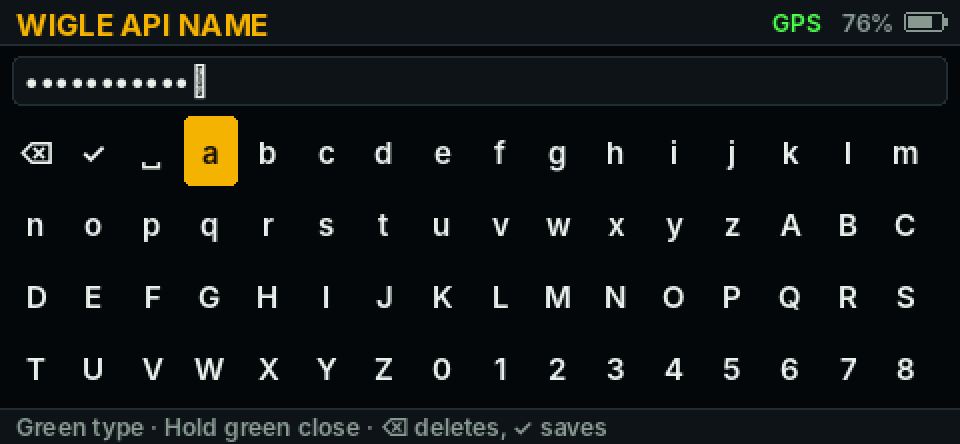
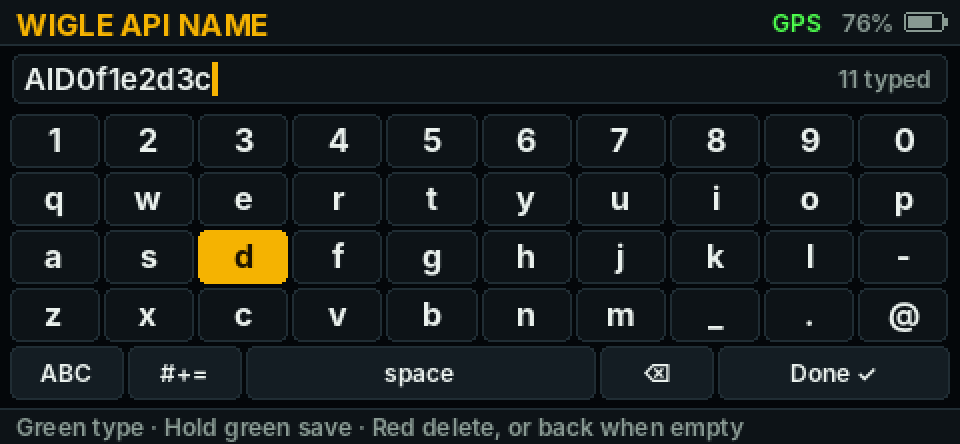
On-screen keyboard for the D-pad that opens with every key entry

Changed region(s): [[0.0, 0.1171, 1.0, 0.9077], [0.3125, 0.9369, 0.7812, 0.9955], [0.9375, 0.5563, 0.9688, 0.5856]]

diff --git a/payload/quartermaster/qmpager/wide.py b/payload/quartermaster/qmpager/wide.py
@@ -16,6 +16,7 @@ from quartermaster.ui.keys import Key
 from quartermaster.ui.square import SquareUI
 
 from . import PAGER_VERSION
+from .keyboard import WIDE, Keyboard
 
 WIDTH, HEIGHT = 480, 222
 TOP = 24
@@ -130,10 +131,44 @@ class WideUI(SquareUI):
             step = {"LEFT": -1, "RIGHT": 1, "UP": -HOME_COLUMNS, "DOWN": HOME_COLUMNS}[key.name]
             screen.index = (screen.index + step) % len(screen.TILES)
             return True
-        if isinstance(screen, screens.TextInput) and self.mode == "type" and key.name in ("UP", "DOWN"):
-            self.cell = (self.cell + (16 if key.name == "DOWN" else -16)) % len(self.characters())
-            return True
+        if isinstance(screen, screens.TextInput) and self.mode != "actions":
+            return self.typing(key, screen, app)
         return super().handle(key, app)
+
+    def sync(self, screen):
+        if screen is not self.screen:
+            self.kb = Keyboard()
+        super().sync(screen)
+
+    def typing(self, key, screen, app):
+        name = key.name
+        kb = self.sync_kb()
+        if name in ("UP", "DOWN", "LEFT", "RIGHT"):
+            kb.move(name)
+        elif name == "ENTER" and not key.repeat:
+            done = kb.press()
+            if done is None:
+                return True
+            if done[0] == "type":
+                screen.insert(done[1])
+            elif done[0] == "delete":
+                screen.value = screen.value[:-1]
+            else:
+                screen.handle(Key("ENTER"), app)
+        elif name == "TAB":
+            screen.handle(Key("ENTER"), app)
+        elif name == "ESC":
+            if screen.value:
+                screen.value = screen.value[:-1]
+            else:
+                screen.handle(Key("ESC"), app)
+        elif name in ("BACKSPACE", "DELETE"):
+            screen.value = screen.value[:-1]
+        elif key.char and key.char.isprintable():
+            screen.insert(key.char)
+        else:
+            return False
+        return True
 
     def home(self, c, app, screen):
         w = (WIDTH - 10) // HOME_COLUMNS
@@ -217,29 +252,41 @@ class WideUI(SquareUI):
                           self.bold, GOLD_INK if selected else TEXT)
 
     def editor(self, c, screen):
-        y = TOP + 4
-        field = screen.display_value()
-        while field and c.text_width(field, self.body) > WIDTH - 30:
+        kb = self.sync_kb()
+        y = TOP + 3
+        field = screen.value
+        while field and c.text_width(field, self.body) > WIDTH - 90:
             field = field[1:]
         c.rect((6, y, WIDTH - 7, y + ROW + 2), fill=SURFACE, outline=LINE, radius=4)
-        c.text((12, y + 3), field + "│", self.body, TEXT)
-        y += ROW + 8
-        if self.mode != "type":
-            self.paragraph(c, screen.hint or "Hold green to open the letters.", y, MUTED, face=self.small)
-            return "Green save · Hold green letters · Red back"
-        chars = self.characters()
-        per = 64
-        first = self.cell // per * per
-        step = (BOTTOM - y - 2) // 4
-        cell_w = (WIDTH - 8) // 16
-        for i, char in enumerate(chars[first:first + per]):
-            x, yy = 4 + i % 16 * cell_w, y + i // 16 * step
-            active = first + i == self.cell
-            if active:
-                c.rect((x + 1, yy, x + cell_w - 2, yy + step - 2), fill=GOLD, radius=3)
-            c.put((x + cell_w // 2, yy + step // 2), "␣" if char == " " else char, self.body,
-                  GOLD_INK if active else TEXT, "mm")
-        return "Green type · Hold green close · ⌫ deletes, ✓ saves"
+        width = c.text((12, y + 3), field, self.body, TEXT)
+        if int(time.monotonic() * 2) % 2 == 0:
+            c.rect((13 + width, y + 4, 15 + width, y + ROW - 2), fill=GOLD)
+        c.text_right(WIDTH - 14, y + 5, "%d typed" % len(screen.value), self.small, MUTED)
+        y += ROW + 7
+        rows = kb.rows() + [kb.action_row()]
+        step = (BOTTOM - y - 2) // len(rows)
+        for r, row in enumerate(rows):
+            action = r == len(rows) - 1
+            weights = [WIDE.get(name, 1) for name, _ in row] if action else [1] * len(row)
+            unit = (WIDTH - 8) / (sum(weights) if action else max(len(line) for line in kb.rows()))
+            x = 4.0
+            for i, item in enumerate(row):
+                w = unit * weights[i]
+                label = item[1] if action else item
+                active = r == kb.row and i == kb.col
+                fill = GOLD if active else SURFACE_2 if action else SURFACE
+                c.rect((int(x) + 1, y + 1, int(x + w) - 2, y + step - 2), fill=fill,
+                       outline=GOLD if active else LINE, radius=4)
+                face = self.small if action else self.bold
+                c.put((int(x + w / 2), y + step // 2), label, face, GOLD_INK if active else TEXT, "mm")
+                x += w
+            y += step
+        return "Green type · Hold green save · Red delete, or back when empty"
+
+    def sync_kb(self):
+        if getattr(self, "kb", None) is None:
+            self.kb = Keyboard()
+        return self.kb
 
     def viewport(self, c, app, screen):
         source = Canvas()

diff --git a/payload/quartermaster/qmpager/keyboard.py b/payload/quartermaster/qmpager/keyboard.py
@@ -1,0 +1,84 @@
+"""The on-screen keyboard for the Pager: rows like a real keyboard, moved through with the D-pad.
+
+Green types the key under the cursor. Hold green saves. Red deletes the last character, and on an empty field it
+goes back. The bottom row switches between letters, capitals and symbols, and holds space, delete and done."""
+
+PAGES = {
+    "abc": ("1234567890", "qwertyuiop", "asdfghjkl-", "zxcvbnm_.@"),
+    "ABC": ("1234567890", "QWERTYUIOP", "ASDFGHJKL-", "ZXCVBNM_.@"),
+    "#+=": ("!\"#$%&'()*", "+,-./:;<=>", "?@[\\]^_`{|", "}~"),
+}
+ACTIONS = (("shift", "ABC"), ("symbols", "#+="), ("space", "space"), ("delete", "⌫"), ("done", "Done ✓"))
+WIDE = {"space": 3, "done": 2}
+
+
+class Keyboard:
+    def __init__(self):
+        self.page = "abc"
+        self.row, self.col = 1, 0
+
+    def rows(self):
+        return [list(line) for line in PAGES[self.page]]
+
+    def action_row(self):
+        out = []
+        for name, label in ACTIONS:
+            if name == "shift":
+                label = "abc" if self.page == "ABC" else "ABC"
+            elif name == "symbols":
+                label = "abc" if self.page == "#+=" else "#+="
+            out.append((name, label))
+        return out
+
+    def height(self):
+        return len(self.rows()) + 1
+
+    def width(self, row):
+        return len(self.action_row()) if row == len(self.rows()) else len(self.rows()[row])
+
+    def move(self, name):
+        rows = len(self.rows())
+        if name in ("LEFT", "RIGHT"):
+            self.col = (self.col + (1 if name == "RIGHT" else -1)) % self.width(self.row)
+            return
+        place = self.centre(self.row, self.col)
+        self.row = (self.row + (1 if name == "DOWN" else -1)) % (rows + 1)
+        spans = self.spans(self.row)
+        self.col = min(range(len(spans)), key=lambda i: abs((spans[i][0] + spans[i][1]) / 2 - place))
+
+    def spans(self, row):
+        """Each key's left and right edge on this row, as parts of the keyboard's width."""
+        if row == len(self.rows()):
+            weights = [WIDE.get(name, 1) for name, _ in self.action_row()]
+            total = sum(weights)
+        else:
+            weights = [1] * len(self.rows()[row])
+            total = max(len(line) for line in self.rows())
+        out, left = [], 0
+        for w in weights:
+            out.append((left / total, (left + w) / total))
+            left += w
+        return out
+
+    def centre(self, row, col):
+        left, right = self.spans(row)[col]
+        return (left + right) / 2
+
+    def current(self):
+        """("char", c) or (action name, label) under the cursor."""
+        if self.row == len(self.rows()):
+            return self.action_row()[self.col]
+        return "char", self.rows()[self.row][self.col]
+
+    def press(self):
+        """What green does here: ("type", c), ("delete",), ("done",) or None after a page switch."""
+        kind, value = self.current()
+        if kind == "char":
+            return "type", value
+        if kind == "space":
+            return "type", " "
+        if kind in ("delete", "done"):
+            return (kind,)
+        self.page = ("abc" if self.page == "ABC" else "ABC") if kind == "shift" else \
+            ("abc" if self.page == "#+=" else "#+=")
+        return None

diff --git a/tests/test_pager.py b/tests/test_pager.py
@@ -300,3 +300,42 @@ def test_screen_timeout_is_in_settings_and_defaults_to_never():
                             capture_output=True, text=True,
                             env={"QUARTERMASTER_HOME": "/tmp/qm-test", "PATH": "/usr/bin:/bin"})
     assert result.stdout.strip() == "ok", result.stderr
+
+
+def test_keyboard_moves_like_a_keyboard_and_switches_pages():
+    from qmpager.keyboard import Keyboard
+    kb = Keyboard()
+    assert kb.current() == ("char", "q")
+    kb.move("LEFT")
+    assert kb.current() == ("char", "p")
+    for _ in range(3):
+        kb.move("DOWN")
+    assert kb.current()[0] == "done"
+    kb.col = 0
+    assert kb.press() is None and kb.page == "ABC"
+    kb.move("UP")
+    assert kb.current() == ("char", "Z")
+    kb.row, kb.col = 4, 2
+    assert kb.press() == ("type", " ")
+
+
+def test_pager_keyboard_types_deletes_and_saves():
+    from qmpager import wide
+    from quartermaster.ui import screens
+    from quartermaster.ui.keys import Key
+    saved = []
+
+    class App:
+        def pop(self):
+            saved.append("popped")
+    app = App()
+    app.screen = screens.TextInput("KEY", saved.append, secret=True)
+    ui = wide.WideUI()
+    ui.handle(Key("ENTER"), app)
+    ui.handle(Key("RIGHT"), app)
+    ui.handle(Key("ENTER"), app)
+    assert app.screen.value == "qw"
+    ui.handle(Key("ESC"), app)
+    assert app.screen.value == "q"
+    ui.handle(Key("TAB"), app)
+    assert saved == ["popped", "q"]

diff --git a/tools/render_screens.py b/tools/render_screens.py
@@ -81,7 +81,7 @@ def main():
         shot("phone-setup")
         qm.press(app, "ESC", "DOWN", "ENTER")
         app.keyboard.type("AID0f1e2d3c")
-        qm.press(app, "TAB", "RIGHT", "RIGHT", "RIGHT")
+        qm.press(app, "RIGHT", "RIGHT", "DOWN")
         shot("keyboard")
         app.open("Recon")
         qm.press(app, "SPACE")

diff --git a/payload/quartermaster/README.md b/payload/quartermaster/README.md
@@ -46,8 +46,12 @@ Any button wakes it, and that press does nothing else.
 
 ## Upload keys
 
-Keys are never written in `payload.sh`. Enter them under **Keys** on the Pager with the on-screen keyboard, or open
-**Keys > Phone setup** and scan the QR code with a phone on the same network.
+Keys are never written in `payload.sh`. Enter them under **Keys** on the Pager, or open **Keys > Phone setup** and
+scan the QR code with a phone on the same network.
+
+Picking a key opens the on-screen keyboard. Move with the D-pad and press green to type the key under the cursor.
+The bottom row switches to capitals (ABC) or symbols (#+=) and has space, delete and Done. Red deletes the last
+character, or goes back when the field is empty. Hold green to save.
 
 ## Quartermaster Nodes
 
